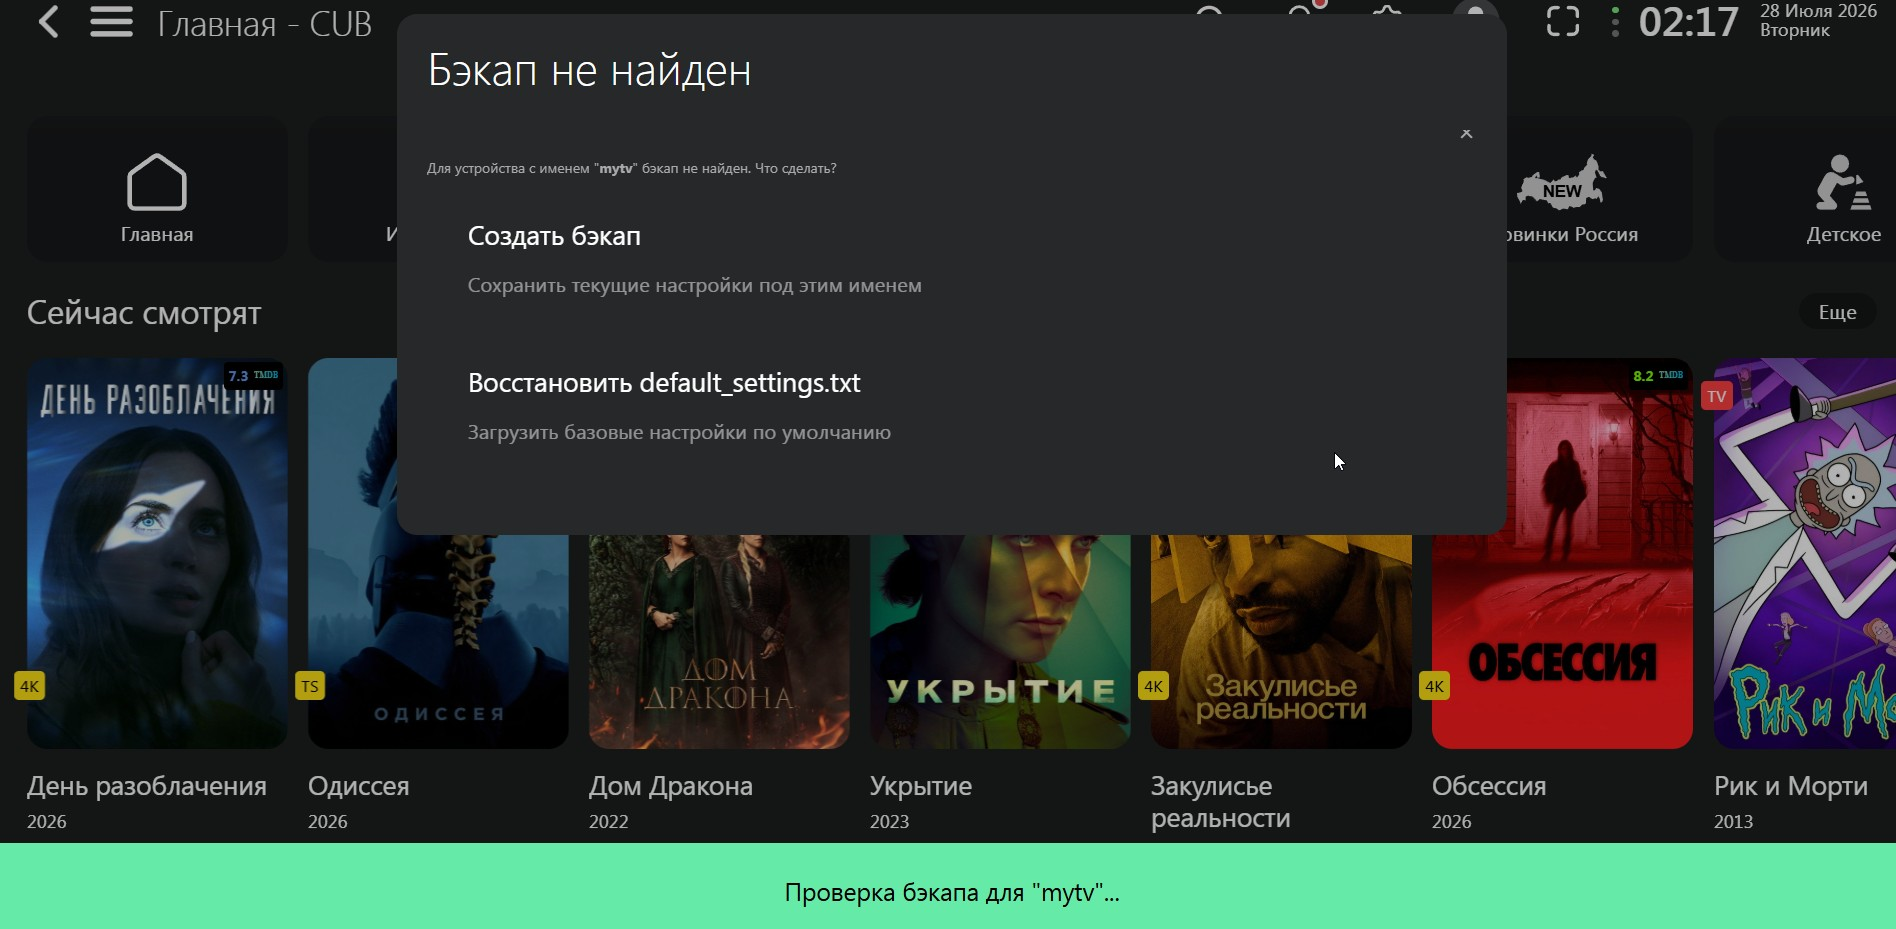
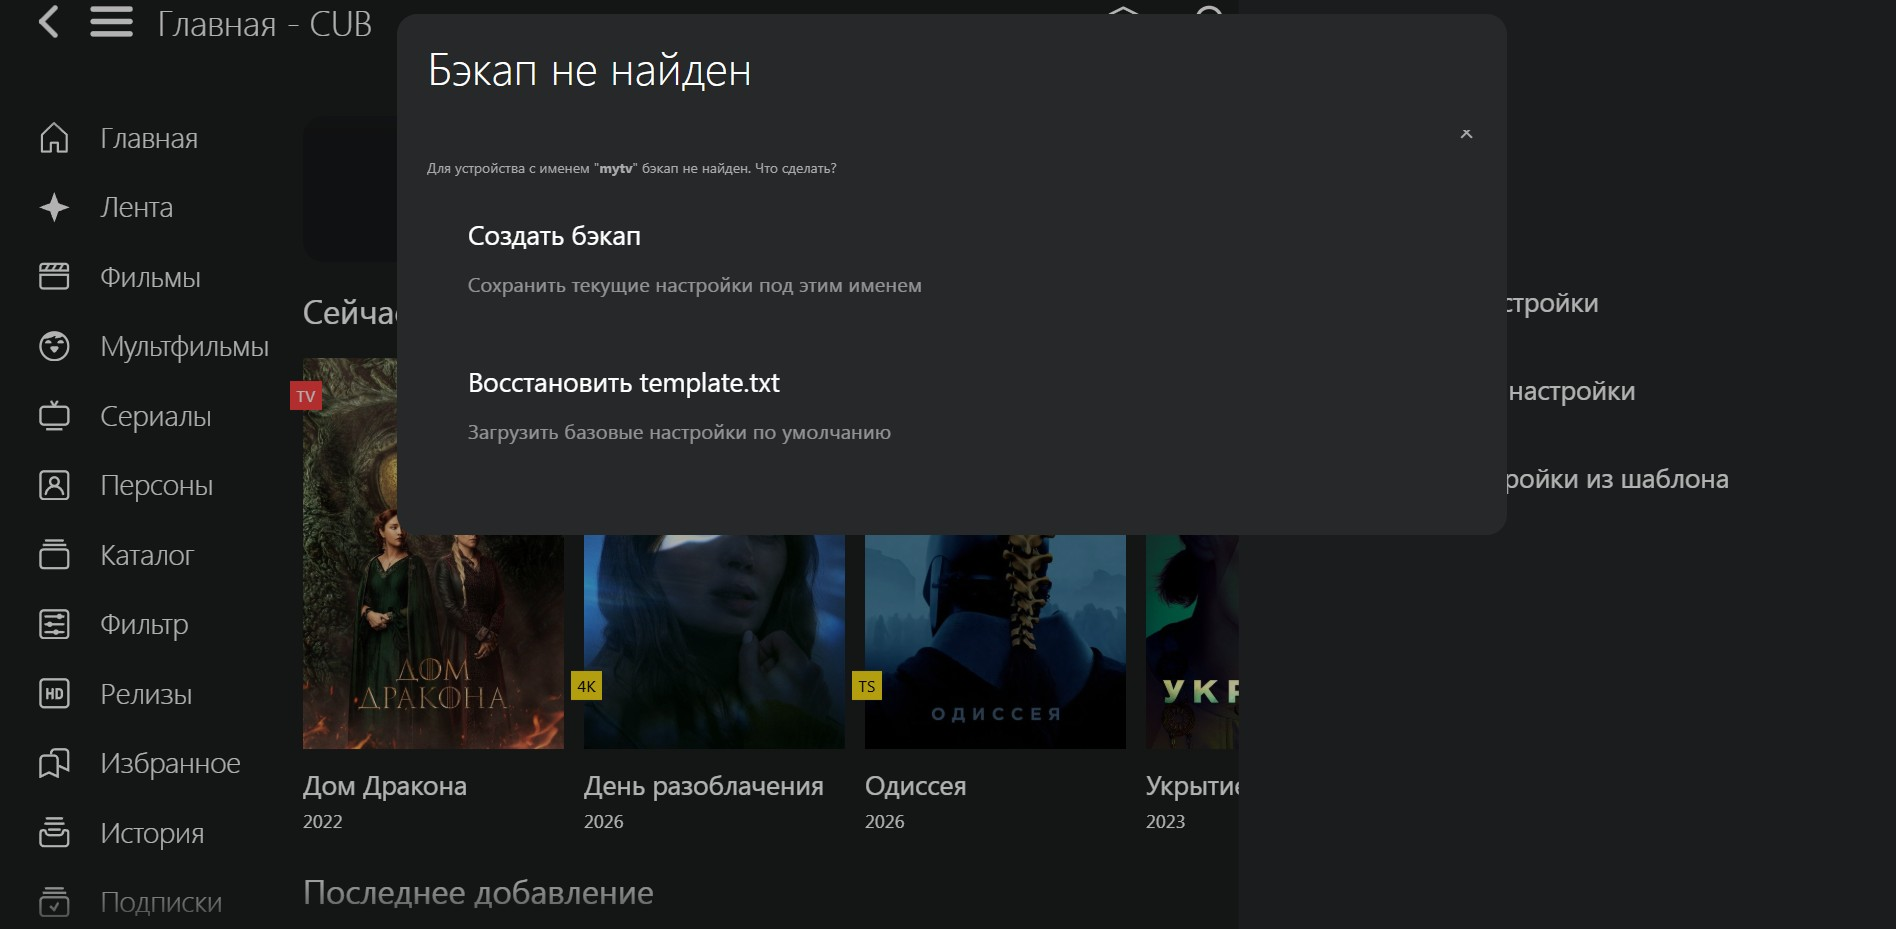
fix

diff --git a/Бэкап настроек Lampa/backup.js b/Бэкап настроек Lampa/backup.js
@@ -154,13 +154,13 @@
 
         var folder = CONFIG.backup_folder.replace(/\/+$/, '');
         var backupUrl = folder + '/settings_' + name + '.txt';
-        var defaultUrl = folder + '/default_settings.txt';
+        var defaultUrl = folder + '/template.txt';
         fetchAndApply(backupUrl, defaultUrl);
     }
 
     function loadDefaultSettings() {
         var folder = CONFIG.backup_folder.replace(/\/+$/, '');
-        var defaultUrl = folder + '/default_settings.txt';
+        var defaultUrl = folder + '/template.txt';
 
         fetch(defaultUrl)
         .then(function(res) {
@@ -285,11 +285,11 @@
                 zh: '服务器上未找到备份文件'
             },
             lampac_backup_noty_default_not_found: {
-                ru: 'Файл default_settings.txt не найден',
-                en: 'default_settings.txt not found',
-                uk: 'Файл default_settings.txt не знайдено',
-                be: 'Файл default_settings.txt не знойдзены',
-                zh: '未找到 default_settings.txt'
+                ru: 'Файл template.txt не найден',
+                en: 'template.txt not found',
+                uk: 'Файл template.txt не знайдено',
+                be: 'Файл template.txt не знойдзены',
+                zh: '未找到 template.txt'
             },
             lampac_backup_modal_title: {
                 ru: 'Бэкап не найден',
@@ -327,11 +327,11 @@
                 zh: '以此名称保存当前设置'
             },
             lampac_backup_modal_default: {
-                ru: 'Восстановить default_settings.txt',
-                en: 'Restore default_settings.txt',
-                uk: 'Відновити default_settings.txt',
-                be: 'Аднавіць default_settings.txt',
-                zh: '恢复 default_settings.txt'
+                ru: 'Восстановить template.txt',
+                en: 'Restore template.txt',
+                uk: 'Відновити template.txt',
+                be: 'Аднавіць template.txt',
+                zh: '恢复 template.txt'
             },
             lampac_backup_modal_default_descr: {
                 ru: 'Загрузить базовые настройки по умолчанию',
